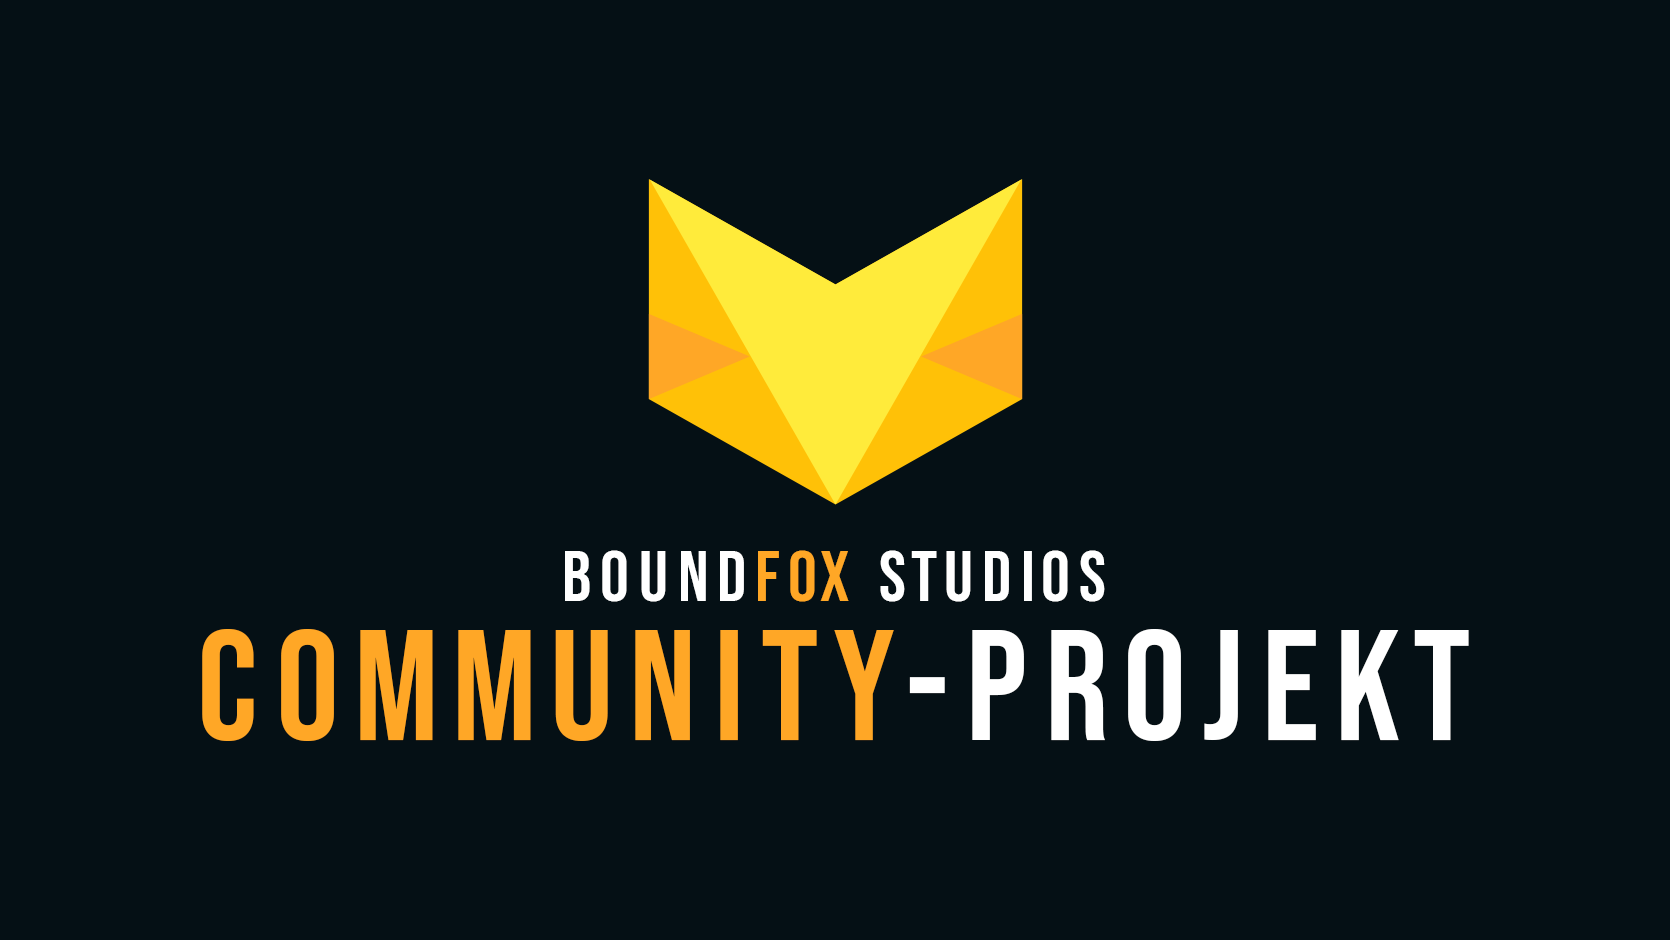
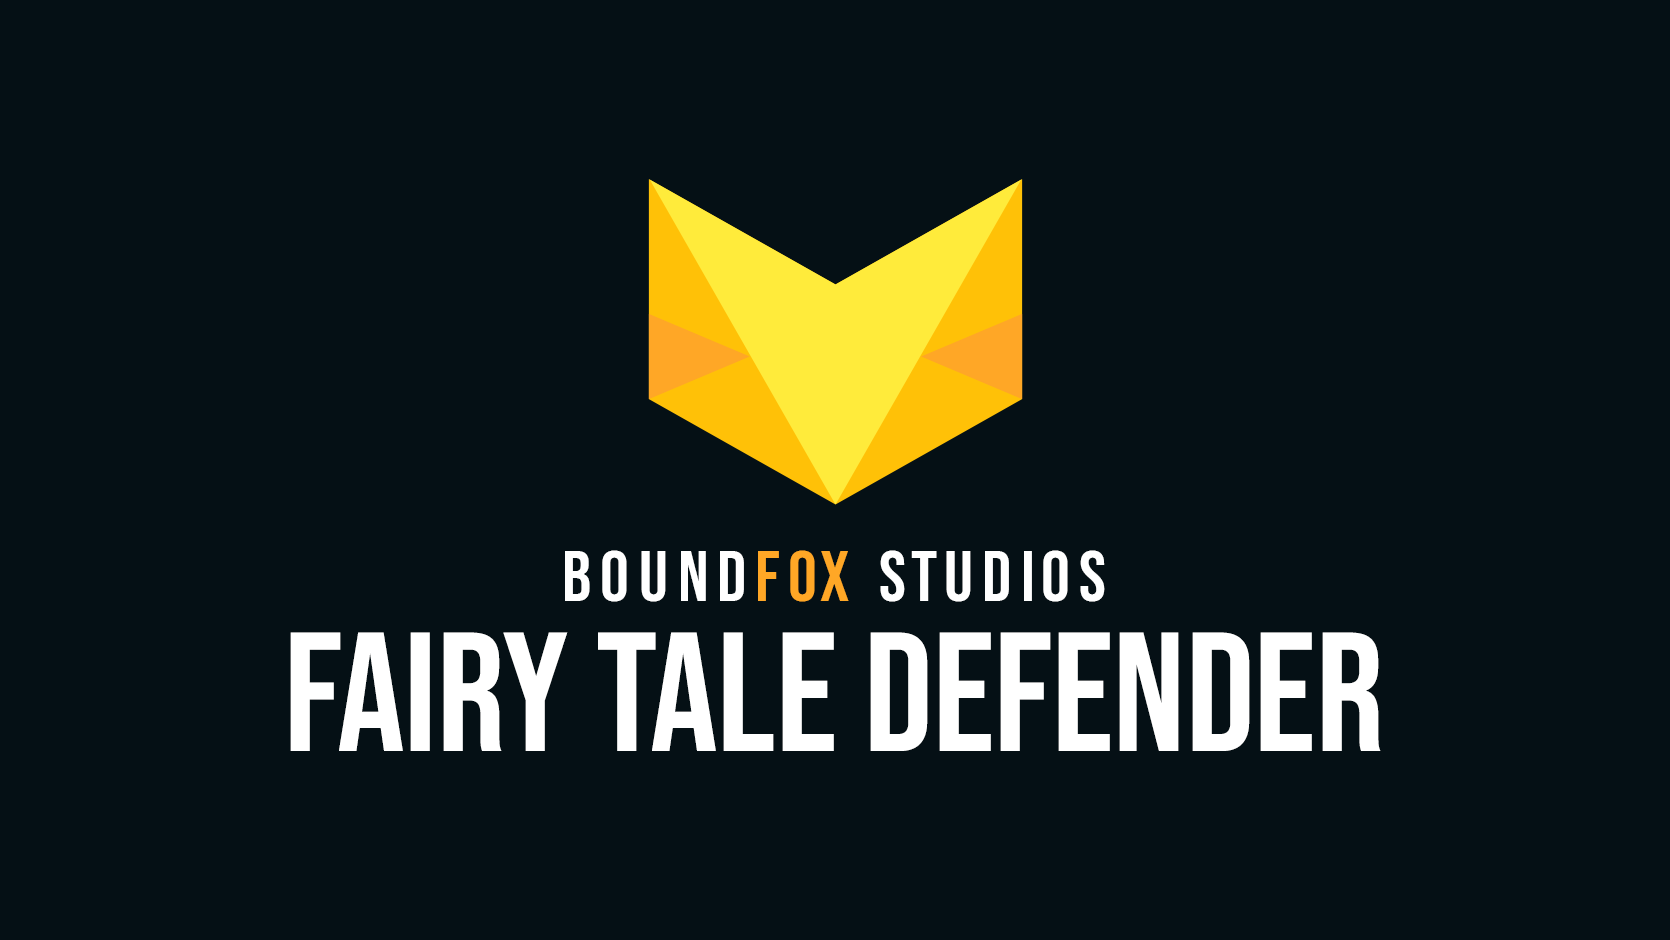
refactor: rename “Community-Projekt” to “Fairy Tale Defender”

Changed region(s): [[0.0934, 0.6479, 0.8719, 0.8021]]

diff --git a/docs/content/_index.html b/docs/content/_index.html
@@ -1,11 +1,12 @@
 ---
-title: Boundfox Studios Community-Projekt
+title: Fairy Tale Defender
 linkTitle: Home
 ---
 
-{{< blocks/cover title="Boundfox Studios Community-Projekt" color="primary" >}}
+{{< blocks/cover title="Fairy Tale Defender" color="primary" >}}
 <div class="mx-auto">
-	<p class="lead mb-5">Open Source <span class="text-secondary">Tower Defense im Mittelalter-Theme</span>.<br/><i class="fab fa-unity fa-2x mt-4"></i></p>
+	<p class="lead mb-5">Open Source <span class="text-secondary">Tower Defense im Mittelalter-Theme</span>.<br/>
+		Ein <span class="text-secondary">Boundfox Studios</span> Community-Projekt.<br/><i class="fab fa-unity fa-2x mt-4"></i></p>
 	<a class="btn btn-lg btn-primary mr-3 mb-4" href="{{< relref "/docs" >}}">
 		Dokumentation <i class="fas fa-arrow-alt-circle-right ml-2"></i>
 	</a>
@@ -18,7 +19,7 @@ linkTitle: Home
 
 {{% blocks/lead color="secondary" %}}
 <p>
-Mit dem Community-Projekt wagen wir ein kleines Experiment: <br/>
+Mit Fairy Tale Defender wagen wir ein kleines Experiment: <br/>
 Dem Entwickeln eines open-source Spiels mit Unity.
 </p>
 
@@ -55,7 +56,7 @@ Aktuell haben sich {{< contributor-count >}} Menschen am Projekt beteiligt!
 {{< /blocks/section >}}
 
 {{% blocks/lead color="secondary" %}}
-<a href="{{< param "project_links.community_playlist.url" >}}" class="text-dark" target="_blank" title="Community-Projekt Playlist">YouTube-Videos zum Community-Projekt</a>
+<a href="{{< param "project_links.community_playlist.url" >}}" class="text-dark" target="_blank" title="Fairy Tale Defender Playlist">YouTube-Videos zu Fairy Tale Defender</a>
 {{% /blocks/lead %}}
 
 {{< blocks/section color="white" type="section" >}}

diff --git a/README.md b/README.md
@@ -1,8 +1,10 @@
 [![YouTube Channel Subscribers](https://img.shields.io/youtube/channel/subscribers/UCf54CbMEHpI3fXE-SwMg0Ug?style=social)][1] [![Discord](https://img.shields.io/discord/454361389935493124?logo=discord&logoColor=white)][2] ![GitHub contributors (via allcontributors.org)](https://img.shields.io/github/all-contributors/BoundfoxStudios/community-project)
 
-# Boundfox Studios Community-Projekt
+# Fairy Tale Defender
 
-![Boundfox Studios Community-Projekt](docs/content/docs/contributing/assets/cover.png)
+> Ein Boundfox Studios Community-Projekt
+
+![Boundfox Studios Fairy Tale Defender](docs/content/docs/contributing/assets/cover.png)
 
 [_I speak english._](#english)
 
@@ -11,7 +13,7 @@
 Hallo!
 
 Schön, dass Du hier her gefunden hast zu unserem Community-Projekt (oder eher auch ein Community-Experiment).
-In diesem Repository (kurz Repo) findest Du so ziemlich alles, was zum Community-Projekt gehört.
+In diesem Repository (kurz Repo) findest Du so ziemlich alles, was zu Fairy Tale Defender gehört.
 
 Am besten liest Du Dich erstmal etwas durch die [Dokumentation](https://boundfoxstudios.github.io/community-project).
 Diese ist umfangreich und enthält alle wichtigen Informationen.
@@ -50,13 +52,13 @@ _Ich kann aber gar nicht programmieren._
 Kein Problem! Ein Spiel zu entwickeln bedeutet viel mehr als Programmieren zu können. 
 Beispielsweise werden auch 3D-Modellierer, 2D-Designer, Musiker, Effekt-Designer, Spieletester, Übersetzer und vieles mehr benötigt.
 
-Am Besten schaust Du Dir zuerst das [Intro-Video auf YouTube](https://youtu.be/QFcMmSl0cWA) an, danach kannst Du [hier](https://boundfoxstudios.github.io/community-project/docs/contributing/) in der [Dokumentation](https://boundfoxstudios.github.io/community-project/docs/) lesen, wie Du Dich am Community-Projekt beteiligen kannst. 
+Am Besten schaust Du Dir zuerst das [Intro-Video auf YouTube](https://youtu.be/QFcMmSl0cWA) an, danach kannst Du [hier](https://boundfoxstudios.github.io/community-project/docs/contributing/) in der [Dokumentation](https://boundfoxstudios.github.io/community-project/docs/) lesen, wie Du Dich bei Fairy Tale Defender beteiligen kannst. 
 
 Beachte beim Mitmachen auch unseren [Code of Conduct](CODE_OF_CONDUCT.md), sodass wir hier alle, die mitmachen möchten, respektvoll miteinander umgehen.
 
 ### Wer macht bereits mit?
 
-Diese wundervollen Menschen haben sich bisher am Community-Projekt beteiligt:
+Diese wundervollen Menschen haben sich bisher bei Fairy Tale Defender beteiligt:
 
 <!-- ALL-CONTRIBUTORS-LIST:START - Do not remove or modify this section -->
 <!-- prettier-ignore-start -->
@@ -125,7 +127,7 @@ Du musst:
 
 ## JetBrains Rider
 
-[JetBrains](https://jetbrains.com) sponsert unser Community-Projekt mit [Lizenzen](https://jb.gg/OpenSourceSupport) für JetBrains Rider!
+[JetBrains](https://jetbrains.com) sponsert unser Fairy Tale Defender mit [Lizenzen](https://jb.gg/OpenSourceSupport) für JetBrains Rider!
 Jeder Entwickler, die sich im Projekt regelmäßig engagiert und aktiv ist, kann eine Lizenz für JetBrains Rider erhalten.
 
 ![JetBrains](docs/content/docs/contributing/assets/jb_beam.png)

diff --git a/docs/content/docs/docs-technical/systems/multi-scene-management/index.md b/docs/content/docs/docs-technical/systems/multi-scene-management/index.md
@@ -11,7 +11,7 @@ In Unity-sprech ist das ein _additives Laden von Szenen_.
 Der Ablauf ist aktuell wie folgt:
 
 * Wir laden zum Start des Spiels die `Initialization`-Szene. Sie hat nur ein einziges Objekt mit dem [InitializationLoader](https://github.com/BoundfoxStudios/community-project/blob/develop/CommunityProject/Assets/_Game/Scripts/Runtime/Infrastructure/SceneManagement/InitializationLoader.cs)-Script. Dieses Script startet das eigentliche Spiel, in dem es zwei weitere Szenen lädt: `PersistentManagers` und das `MainMenu`. Danach wird die `Initialization`-Szene entladen.
-* `PersistentManagers` ist eine Szene, die einmalig geladen wird und während der gesamten Laufzeit vom Spiel nie wieder entladen wird. In dieser Szene liegen Objekte/Manager, die wir das gesamte Spiel über benötigen, z.B. Hintergrundmusik oder das Laden von anderen Szenen (via [SceneLoader](https://github.com/BoundfoxStudios/community-project/blob/develop/CommunityProject/Assets/_Game/Scripts/Runtime/Infrastructure/SceneManagement/SceneLoader.cs)-Skript). Über ein [Event-System](../event-system/) können andere Szenen und Objekte mit den `PersistentManagers` kommunizieren. Für den Fall, dass man in Unity den Play Mode von einer anderen Szene aus startet (was durchaus üblich ist), kümmert sich ein `EditorOnly`-GameObject darum, diese `PersistentManagers` zu laden. So, als hätte man das Spiel über die `Initialization`-Szene gestartet. Dieser Vorgang nennt sich im Community-Projekt "EditorColdStartup".
+* `PersistentManagers` ist eine Szene, die einmalig geladen wird und während der gesamten Laufzeit vom Spiel nie wieder entladen wird. In dieser Szene liegen Objekte/Manager, die wir das gesamte Spiel über benötigen, z.B. Hintergrundmusik oder das Laden von anderen Szenen (via [SceneLoader](https://github.com/BoundfoxStudios/community-project/blob/develop/CommunityProject/Assets/_Game/Scripts/Runtime/Infrastructure/SceneManagement/SceneLoader.cs)-Skript). Über ein [Event-System](../event-system/) können andere Szenen und Objekte mit den `PersistentManagers` kommunizieren. Für den Fall, dass man in Unity den Play Mode von einer anderen Szene aus startet (was durchaus üblich ist), kümmert sich ein `EditorOnly`-GameObject darum, diese `PersistentManagers` zu laden. So, als hätte man das Spiel über die `Initialization`-Szene gestartet. Dieser Vorgang nennt sich bei Fairy Tale Defender "EditorColdStartup".
 
 Die Implementierung des Multi Scene Managements findet sich im Ordner [SceneManagement](https://github.com/BoundfoxStudios/community-project/tree/develop/CommunityProject/Assets/_Game/Scripts/Runtime/Infrastructure/SceneManagement).
 

diff --git a/docs/content/docs/contributing/_index.md b/docs/content/docs/contributing/_index.md
@@ -1,7 +1,7 @@
 ---
 title: Mitmachen
 linkTitle: Mitmachen
-description: Info, wie man beim Community-Projekt mitwirken kann.
+description: Info, wie man bei Fairy Tale Defender mitwirken kann.
 menu:
   main:
     weight: 1
@@ -10,9 +10,9 @@ weight: 100
 icon: fa-solid fa-people-group
 ---
 
-![Boundfox Studios Community-Projekt](assets/cover.png)
+![Fairy Tale Defender](assets/cover.png)
 
-Es freut uns sehr, wenn wir Dein Interesse geweckt haben, dass Du Dich in irgendeiner Form am Community-Projekt beteiligen möchtest.
+Es freut uns sehr, wenn wir Dein Interesse geweckt haben, dass Du Dich in irgendeiner Form bei Fairy Tale Defender beteiligen möchtest.
 Schau Dir am besten zuerst das [Intro-Video auf YouTube](https://youtu.be/QFcMmSl0cWA) an und lies dann hier weiter.
 Bitte beachte zudem unseren [Code of Conduct][3], sodass wir hier alle miteinander respektvoll umgehen und eine angenehme Atmosphäre schaffen.
 
@@ -109,7 +109,7 @@ Sobald es mal "mehr vom Spiel gibt", werden weitere Rollen sich am Spiel beteili
 
 ## Wo finde ich, was es zu tun gibt? Wo sind die Aufgaben?
 
-Eine Liste von Aufgaben wirst Du auf der [Issue-Seite][1] von unserem Community-Projekt finden.
+Eine Liste von Aufgaben wirst Du auf der [Issue-Seite][1] von Fairy Tale Defender finden.
 Alternativ kannst Du auch einen Blick auf das [Projekt-Board][2] werfen.
 Das bedeutet aber nicht, dass Du nur an diesen Aufgaben arbeiten kannst.
 Wenn Du einen Bug gefunden hast oder Dir eine tolle Idee kommt, dann lass uns gerne darüber reden und eventuell machen wir daraus eine neue Aufgabe für Dich.

diff --git a/docs/content/docs/docs-technical/coding-conventions/index.md b/docs/content/docs/docs-technical/coding-conventions/index.md
@@ -51,7 +51,7 @@ public class Something : MonoBehaviour
 }
 ```
 
-Diese Variante nutzen wir **nicht** im Community-Projekt, sondern wir bevorzugen diese Schreibweise:
+Diese Variante nutzen wir **nicht**, sondern wir bevorzugen diese Schreibweise:
 
 ```cs
 public class Something : MonoBehaviour
@@ -117,7 +117,7 @@ Zusätzlich kann man ein `Debug.Assert` in den Code einfügen, um dem Benutzer d
 ```cs
 private void OnValidate()
 {
-  // Guard.AgainstNull ist eine Funktion aus dem Community-Projekt und prüft, ob ein Feld oder Eigenschaft null ist.
+  // Guard.AgainstNull ist eine Funktion aus von Fairy Tale Defender und prüft, ob ein Feld oder Eigenschaft null ist.
   // Falls dem der Fall ist, gibt sie eine Nachricht aus.
   Guard.AgainstNull(() => SomePrefab);
 }
@@ -130,7 +130,7 @@ Entsprechend muss man im Verlauf des Codes darauf achten, was passieren soll, we
 
 #### Asynchrone Entwicklung / Coroutines
 
-Wir setzen im Community-Projekt auf eine externe Bibliothek, sodass wir C# `async/await` nutzen können: [UniTask](https://github.com/Cysharp/UniTask).
+Wir setzen bei Fairy Tale Defender auf eine externe Bibliothek, sodass wir C# `async/await` nutzen können: [UniTask](https://github.com/Cysharp/UniTask).
 Die Bibliothek integriert sich komplett in Unity und ersetzt oft die Nutzung von Coroutines (oder macht deren Nutzung deutlich angenehmer).
 
 Vermeide daher das Implementieren von Coroutinen, falls das ganze auch via `async/await` implementierbar ist.

diff --git a/docs/content/docs/_index.md b/docs/content/docs/_index.md
@@ -13,7 +13,7 @@ Zur Vereinfachung des Schreibens und Lesens der Dokumentation wird sie im generi
 Beispielsweise umfasst der Begriff "Der Spieler" alle Spieler:innen aller Geschlechter.
 {{% /alert %}}
 
-In dieser Dokumentation wirst Du nach und nach alles finden, was zum Community-Projekt gehört.
+In dieser Dokumentation wirst Du nach und nach alles finden, was zu Fairy Tale Defender gehört.
 
 Auf der linken Seite findest Du ein Inhaltsverzeichnis, auf der rechten Seite kannst Du Dir den Quelltext von der Dokumentation anschauen.
 Diese ist, wie das komplette Projekt, auch Open-Source!
@@ -26,9 +26,9 @@ Unten links und rechts findest Du wichtige Links zum Projekt, aber auch hier noc
 * [Twitter]({{< param "project_links.github.url" >}})
 * [Weitere Socials](https://boundfoxstudios.com/socials)
 
-## YouTube "Community-Projekt" Playlist
+## YouTube "Fairy Tale Defender" Playlist
 
-Alle Videos zum Community-Projekt findest Du in der [Playlist auf YouTube]({{< param "project_links.community_playlist.url" >}})!
+Alle Videos zum Fairy Tale Defender findest Du in der [Playlist auf YouTube]({{< param "project_links.community_playlist.url" >}})!
 
 {{< youtube-playlist id="PLxVAs8AY4TgchOtBZqg4qvFeq6w74ZtAm" >}}
 

diff --git a/docs/content/docs/contributing/technical/index.md b/docs/content/docs/contributing/technical/index.md
@@ -50,7 +50,7 @@ Frag gerne auf dem [Discord]({{< param "project_links.discord.url" >}}) nach, we
 
 ## JetBrains Rider Lizenz
 
-[JetBrains](https://jetbrains.com) sponsert unser Community-Projekt mit [Lizenzen](https://jb.gg/OpenSourceSupport) für JetBrains Rider!
+[JetBrains](https://jetbrains.com) sponsert Fairy Tale Defender mit [Lizenzen](https://jb.gg/OpenSourceSupport) für JetBrains Rider!
 Jeder Entwickler, der sich im Projekt regelmäßig engagiert und aktiv ist, kann eine Lizenz für JetBrains Rider erhalten.
 
 ![JetBrains](../assets/jb_beam.png)

diff --git a/docs/content/game-design-document/overview/index.md b/docs/content/game-design-document/overview/index.md
@@ -6,7 +6,7 @@ weight: 1
 ---
 
 Dieses Dokument sollte von allen gelesen werden, die Interesse haben, bei der Entwicklung und beim Testen des Spiels mitzuhelfen.
-Es beschreibt das Design für das Community-Projekt Tower Defense Spiel.
+Es beschreibt das Design für Fairy Tale Defender.
 
 ## Titel
 
@@ -32,7 +32,7 @@ Es beschreibt das Design für das Community-Projekt Tower Defense Spiel.
 
 ## Technologie
 
-* Unity 2021 LTS
+* Unity 2022 LTS
   * 3D URP
   * Shader Graph
   * Input System

diff --git a/docs/content/docs/docs-technical/systems/prefabs/index.md b/docs/content/docs/docs-technical/systems/prefabs/index.md
@@ -6,7 +6,7 @@ description: Dokumentation über Prefabs.
 
 ## UI Prefabs
 
-Im Community-Projekt nutzen wir ein kleines System, um einfacher Prefabs für das UI finden zu können.
+Wir nutzen ein kleines System, um einfacher Prefabs für das UI finden zu können.
 Generell liegen die Prefabs im Ordner `Prefabs/UI`.
 
 Um komfortabel ein UI zusammenbauen zu können, integrieren wir unsere eigenen Prefabs auch in das Menü von Unity (Rechtsklick in der Hierarchy).

diff --git a/docs/content/docs/docs-visual/_index.md b/docs/content/docs/docs-visual/_index.md
@@ -6,7 +6,7 @@ weight: 200
 icon: fa-solid fa-glasses
 ---
 
-Hier findest Du die visuelle Dokumentation des Community-Projekts.
+Hier findest Du die visuelle Dokumentation.
 
 Wenn Du Dich interessiert, [Dich visuell zu beteiligen](../contributing/visual/), also dem Erstellen von 3D-Modellen oder 2D-Grafiken, dann solltest Du Dir alle Informationen hier durchlesen.
 

diff --git a/docs/content/docs/docs-technical/systems/scene-templates/index.md b/docs/content/docs/docs-technical/systems/scene-templates/index.md
@@ -5,7 +5,7 @@ description: Dokumentation der Scene Templates.
 ---
 
 Du kannst komfortabel neue Szenen anlegen, wenn Du in Unity über das Menü `File` -> `New Scene` gehst.
-Dort findest Du im Dialog zwei Templates, die vom Community-Projekt stammen:
+Dort findest Du im Dialog zwei Templates, die von Fairy Tale Defender stammen:
 
 * Menu Szene
 * Level Szene

diff --git a/docs/content/docs/docs-technical/_index.md b/docs/content/docs/docs-technical/_index.md
@@ -6,6 +6,6 @@ weight: 200
 icon: fa-solid fa-code
 ---
 
-Hier findest Du die technische Dokumentation des Community-Projekts.
+Hier findest Du die technische Dokumentation.
 
 Wenn Du Dich interessiert, [Dich technisch zu beteiligen](../contributing/technical/), also das Entwickeln von Code, dann solltest Du Dir alle Informationen hier durchlesen.
